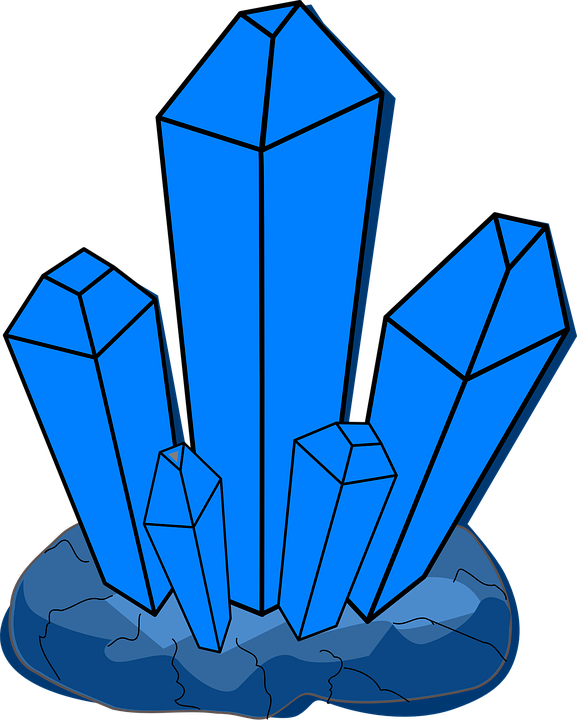
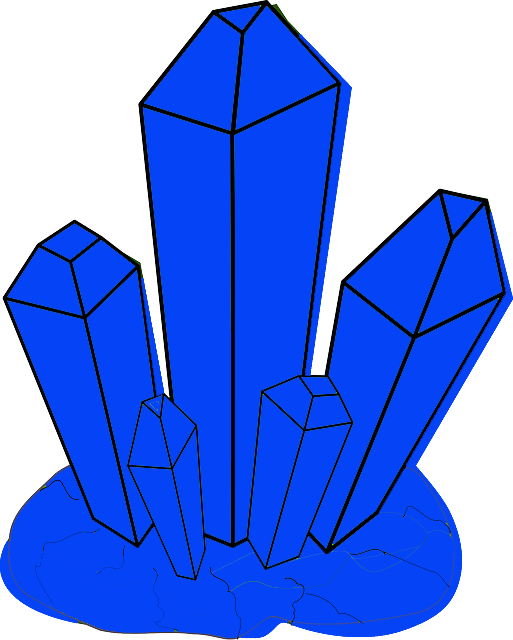
Progress made. green/yellow user var connected

diff --git a/index.html b/index.html
@@ -2,9 +2,13 @@
 <html lang="en">
 <head>
     <meta charset="UTF-8">
-    <title>Crystal Collector Game</title>
+    <meta name="viewport"
+          content="width=device-width, user-scalable=no, initial-scale=1.0, maximum-scale=1.0, minimum-scale=1.0">
+
     <link rel="stylesheet" type="text/css" href="assets/css/reset.css">
     <link rel="stylesheet" type="text/css" href="assets/css/style.css">
+    <script type="text/javascript" src="https://cdnjs.cloudflare.com/ajax/libs/jquery/3.2.1/jquery.min.js"></script>
+    <title>Crystal Collector Game</title>
 </head>
 <body background="assets/images/merely_cubed.png">
     <header>
@@ -12,26 +16,36 @@
     </header>
 
     <section class="left">
-        Text for the game will go here
+        <h3> Rules</h3>
+        <p> You will start out with a randomly generated number.</p>
+        <p> By now you should have noticed that there are 4 different colored crystals below.
+            Each of those crystals has a different value assigned to it. Every time you click one of them
+            the value of the crystal will be added to "Your Number."</p>
+        <p> Match "Your Number" with the "Target Number" and you Win! Go over the Target Number and you lose</p>
+        <p> The value for each crystal is a mystery for you...... until you click them!</p>
+        <p> If that wasn't enough well the value of each crystal will also change after a win or loss!</p>
+
     </section>
 
-    <section class="right">
-        To the Right of above container
+    <div class="right">
+        <h2> Score Board</h2>
         <p>Wins: <span id="wins"> </span></p>
         <p>Losses: <span id="losses"> </span></p>
-        <button id="button"> </button>
-        <p>Below will be the random number and Target number</p>
-        <p> Your Number <span id="userrandom"> </span></p>
-        <p> Target Number <span id="target"> </span></p>
-    </section>
+        <p> Your Number: <span id="user"></span></p>
+        <p> Target Number: <span id="target"> </span></p>
+    </div>
 
     <section class="clearfix">
-        Images will go here
+        <button id="blue"><img src="assets/images/blue-crystal.png" alt="blue-crystal"></button>
+        <button id="green"><img src="assets/images/green-crystal.png" alt="green-crystal"></button>
+        <button id="red"><img src="assets/images/red-crystal.png" alt="red-crystal"></button>
+        <button id="yellow"><img src="assets/images/yellow-crystal.png" alt="yellow-crystal"></button>
     </section>
 
-<footer>
-    Copyright Tabish Akhtar
-</footer>
+    <footer>
+        &copy; Copyright Tabish Akhtar
+    </footer>
 
+<script type="text/javascript" src="assets/javascript/game.js"></script>
 </body>
 </html>

diff --git a/assets/javascript/game.js b/assets/javascript/game.js
@@ -1,0 +1,49 @@
+$(document).ready(function () {
+
+    var wins = 0;
+    var losses = 0;
+    // var user = 0;
+    var input = 0;
+
+    var targetNum = Math.floor(Math.random() * 120) + 19;
+    $("#target").html(targetNum);
+
+    var blueCrystal = Math.floor(Math.random() * 12) + 1;
+    var greenCrystal = Math.floor(Math.random() * 12) + 1;
+    var redCrystal = Math.floor(Math.random() * 12) + 1;
+    var yellowCrystal = Math.floor(Math.random() * 12) + 1;
+    var user = 1;
+
+
+    $("#blue").on("click", function () {
+        blueCrystal;
+        user++;
+        console.log('user: ',user); 
+        $("#user").html(user);
+    });
+
+    $("#green").on("click", function () {
+        $("#user").html(greenCrystal);
+        greenCrystal;
+        console.log('user: ',greenCrystal);
+
+    });
+
+    $("#red").on("click", function () {
+        $("#user").html(redCrystal);
+        input = redCrystal
+    });
+
+    $("#yellow").on("click", function () {
+        $("#user").html(yellowCrystal);
+        input = yellowCrystal;
+        console.log(user);
+    });
+
+    // *********** Log to Check if working***********************
+    // console.log/blueCrystal);
+    // console.log(greenCrystal);
+    // console.log(redCrystal);
+    // console.log(yellowCrystal);
+    // console.log(user);
+});

diff --git a/assets/css/style.css b/assets/css/style.css
@@ -1,4 +1,5 @@
 
+
 body {
     border: 20px solid #000000;
 }
@@ -12,14 +13,20 @@ body {
 
 .left {
     float: left;
-    width: 45%;
-    max-width: 45%;
+    width: 47%;
+    max-width: 47%;
+    border: 2px solid #582c11;
+    background: #cccccc;
+    margin: 1%;
 }
 
 .right {
-    float: right;
-    width: 45%;
-    max-width: 45%;
+    float: left;
+    width: 47%;
+    max-width: 47%;
+    border: 2px solid #582c11;
+    background: #cccccc;
+    margin: 1% 0 0 2%;
 }
 
 .clearfix {
@@ -31,3 +38,36 @@ body {
 footer {
     text-align: center;
 }
+
+h1 {
+    font-size: 35px;
+}
+
+h2 {
+    text-align: center;
+    font-size: 30px;
+}
+
+h3 {
+    text-align: center;
+    font-size: 20px;
+}
+
+section h3, h2, p, div {
+    margin: 10px 15px 10px 15px;
+}
+
+div p {
+    font-size: 22px;
+}
+
+img {
+    height: 250px;
+    width: 170px;
+}
+
+button {
+    margin: 10px;
+    border: 2px solid #582c11;
+}
+
